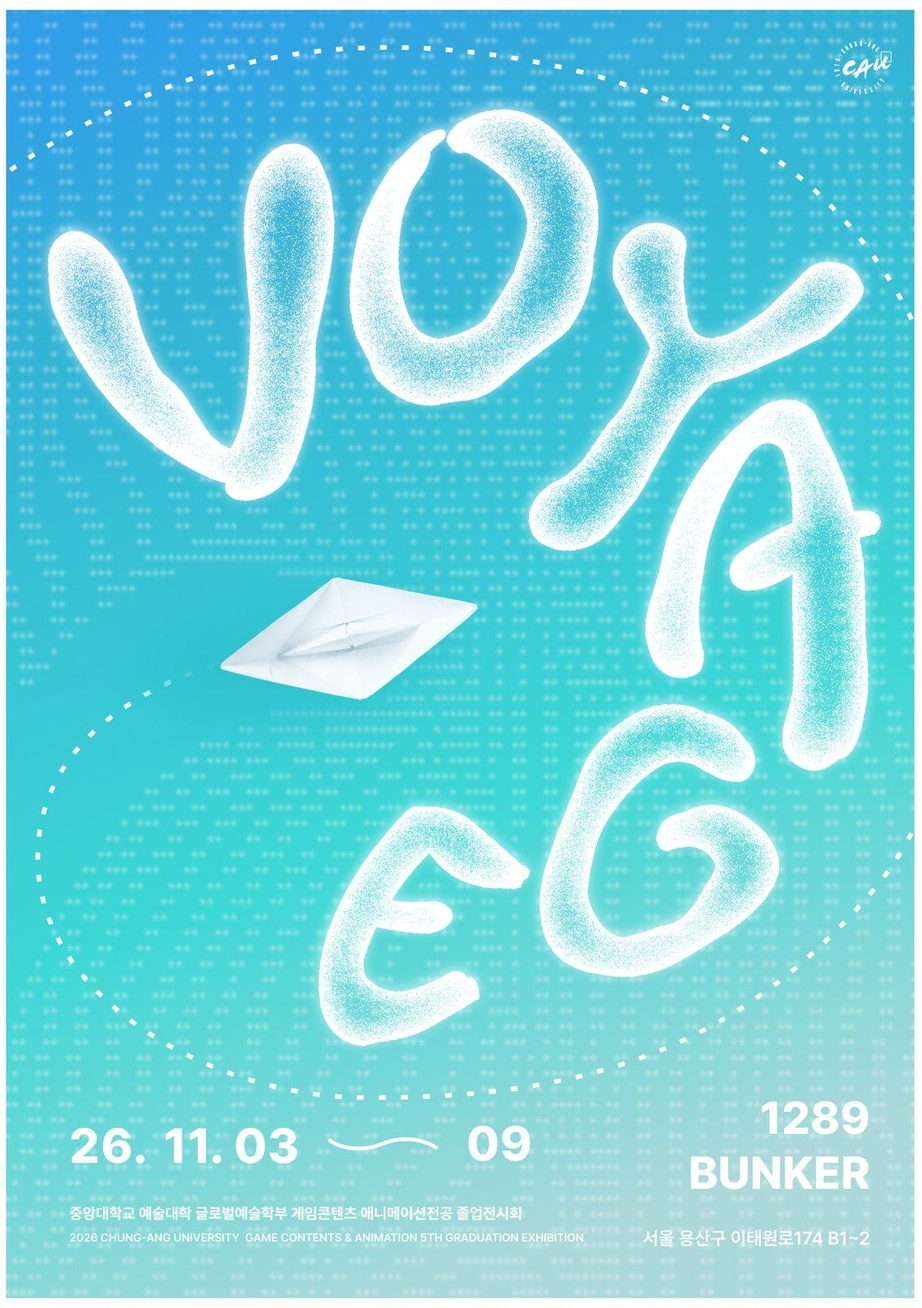
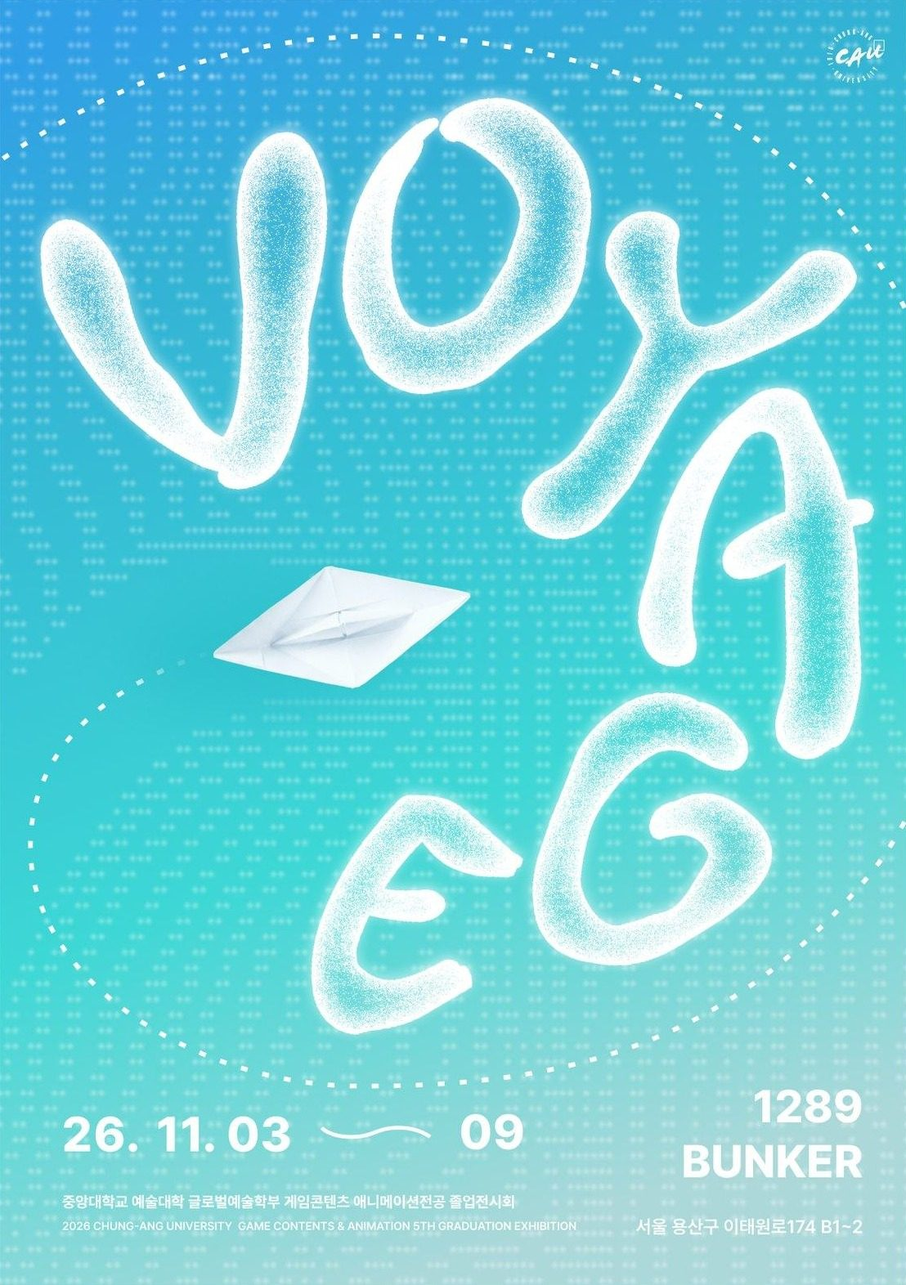
site update 2026-10-25 (ga.cau.ac.kr)

diff --git a/vi/index.html b/vi/index.html
@@ -10,7 +10,7 @@
 <section class="hg"><div class="ht"><div class="lbl">Chung-Ang University · College of Arts · School of Global Arts</div>
 <div><h1>Nội dung<br>Game &amp;<br>Hoạt hình</h1><div class="en">Department of Game Contents &amp; Animation</div></div>
 <p class="lede">Chuyên ngành Nội dung Game &amp; Hoạt hình là chuyên ngành truyền thông liên ngành, kết hợp game, hoạt hình và truyền thông tương tác thành một lĩnh vực sáng tạo thống nhất. Thiết kế nội dung nhằm kiến tạo cảm xúc và trải nghiệm là trọng tâm của hoạt động đào tạo và nghiên cứu.</p></div>
-<figure><img id="hero-img" src="../assets/hero_aria_site.jpg" alt="Cảnh trong tác phẩm sinh viên · Aria&#x27;s Storage Heaven" style="object-position:45% 30%"><figcaption id="hero-cap">STILL · Aria's Storage Heaven · Wu Zhijuan · 2023</figcaption></figure><script>(function(){var H=[["../assets/hero_aria_site.jpg", "45% 30%", "Aria's Storage Heaven", "Wu Zhijuan", 2023, 1], ["../assets/w_theme.jpg", "50% 50%", "Theme World", "Won Jeongmin", 2024, 1], ["../assets/works/2026_dorok/kimsunyou_main_hero.jpg", "50% 50%", "글리치", "Kim Sunyou", 2026, 1]];var m=location.search.match(/hero=(\d)/);var i=m?Math.min(+m[1],H.length-1):Math.floor(Math.random()*H.length);var h=H[i];var im=document.getElementById("hero-img"),c=document.getElementById("hero-cap");im.src=h[0];im.style.objectPosition=h[1];if(h[5]>1){im.style.transform="scale("+h[5]+")";im.style.transformOrigin=h[1];}im.alt="Tác phẩm sinh viên · "+h[2];c.textContent="STILL · "+h[2]+" · "+h[3]+" · "+h[4];})();</script></section>
+<figure><img id="hero-img" src="../assets/hero_aria_site.jpg" alt="Cảnh trong tác phẩm sinh viên · Aria&#x27;s Storage Heaven" style="object-position:45% 30%"><figcaption id="hero-cap">STILL · Aria's Storage Heaven · Wu Zhijuan</figcaption></figure><script>(function(){var H=[["../assets/hero_aria_site.jpg", "45% 30%", "Aria's Storage Heaven", "Wu Zhijuan", 2023, 1], ["../assets/works/2024_dorok/wonjeongmin_hero.jpg", "50% 50%", "Theme World", "Won Jeongmin", 2024, 1], ["../assets/works/2026_dorok/kimsunyou_main_hero.jpg", "50% 50%", "글리치", "Kim Sunyou", 2026, 1]];var m=location.search.match(/hero=(\d)/);var i=m?Math.min(+m[1],H.length-1):Math.floor(Math.random()*H.length);var h=H[i];var im=document.getElementById("hero-img"),c=document.getElementById("hero-cap");im.src=h[0];im.style.objectPosition=h[1];if(h[5]>1){im.style.transform="scale("+h[5]+")";im.style.transformOrigin=h[1];}im.alt="Tác phẩm sinh viên · "+h[2];c.textContent="STILL · "+h[2]+" · "+h[3];})();</script></section>
 <section class="nowbar" aria-label="Sự kiện đang diễn ra"><div class="nb-k"><i></i>NOW</div><ul><li data-show="2026-10-06" data-start="2026-10-16" data-end="2026-10-26"><a href="admission.html#grad"><span class="d"></span>Nhận hồ sơ sau đại học kỳ xuân 2027 10.16–10.26<span aria-hidden="true">→</span></a></li><li data-show="2026-10-20" data-start="2026-11-03" data-end="2026-11-09"><a href="events.html"><span class="d"></span>Triển lãm tốt nghiệp 2026 「VOYAGE」 11.3–11.9 · 1289BUNKER, Itaewon<span aria-hidden="true">→</span></a></li></ul><span class="nb-n"></span></section><script>(function(){var bar=document.querySelector(".nowbar");if(!bar)return;var t=new Date();t.setHours(0,0,0,0);var all=/nowbar=all/.test(location.search);var n=0;bar.querySelectorAll("li").forEach(function(li){var sh=new Date(li.dataset.show+"T00:00:00"),st=new Date(li.dataset.start+"T00:00:00"),en=new Date(li.dataset.end+"T00:00:00");if(!all&&(t<sh||t>en)){li.remove();return;}n++;var d=Math.round((st-t)/864e5);li.querySelector(".d").textContent=d>0?"D-"+d:"Đang diễn ra";});if(!n){bar.hidden=true;return;}var li=[].slice.call(bar.querySelectorAll("li")),i=0,cnt=bar.querySelector(".nb-n");function show(k){li.forEach(function(x,j){x.classList.toggle("on",j===k)});if(cnt)cnt.textContent=li.length>1?(k+1)+" / "+li.length:"";}show(0);if(li.length>1){var stop=false;bar.addEventListener("mouseenter",function(){stop=true});bar.addEventListener("mouseleave",function(){stop=false});setInterval(function(){if(stop)return;i=(i+1)%li.length;show(i)},5000);}})();</script>
 <section class="tri two"><div><h2 class="lbl">Notice · Thông báo</h2><ul class="nl" id="nl-main"><li><a href="notice-view.html"><span class="tag">Tuyển sinh</span><span>Tuyển sinh tân sinh viên Khoa Nghệ thuật Sáng tạo Toàn cầu (sau đại học) kỳ xuân năm học 2027<small>2026.10.12</small></span></a></li><li><a href="notice-view.html"><span class="tag">Học vụ</span><span>Hướng dẫn đăng ký tư vấn Khám phá chuyên ngành và nghề nghiệp<small>2026.10.07</small></span></a></li><li><a href="notice-view.html"><span class="tag">Học vụ</span><span>Lịch tư vấn nghề nghiệp môn CAU Seminar (2)<small>2026.10.06</small></span></a></li><li><a href="notice-view.html"><span class="tag">Học vụ</span><span>Thông báo tổ chức Xét duyệt chính thức Đồ án tốt nghiệp 2026 (xét duyệt triển lãm cấp bằng)<small>2026.10.05</small></span></a></li><li><a href="notice-view.html"><span class="tag">Quốc tế</span><span>Chuyên ngành Nội dung Game &amp; Hoạt hình chính thức tham gia liên minh quốc tế Erasmus+ của EU và thông tin về sinh viên trao đổi<small>2026.09.29</small></span></a></li></ul><p style="margin:12px 0 0"><a class="lbl blue" href="sub.html#notice">All notices →</a></p></div><div id="news"><h2 class="lbl">News · Tin tức</h2><ul class="news-l"><li><a href="sub.html#news"><span class="d">2026.09.29</span><span><span class="k">Quốc tế</span>Chuyên ngành Nội dung Game &amp; Hoạt hình được xác nhận chính thức tham gia liên minh quốc tế Erasmus+ (Erasmus+) của EU</span></a></li><li><a href="sub.html#news"><span class="d">2026.09.03</span><span><span class="k">Bài giảng đặc biệt</span>Đại hội đầu kỳ 2026-2 · Bài giảng đặc biệt: Lee Bangyeon (Trưởng nhóm thiết kế màn chơi, KRAFTON PUBG) 「Thực chiến! Bí quyết xin việc tại công ty game」</span></a></li><li><a href="sub.html#news"><span class="d">2026.08.12</span><span><span class="k">Giải thưởng</span>Đồ án tốt nghiệp 〈School bag〉 vượt qua vòng 1 và vào vòng 2 Cuộc thi Phát triển Game Độc lập Toàn cầu 2026 (GIGDC)</span></a></li><li><a href="sub.html#news"><span class="d">2026.05.30</span><span><span class="k">Cựu sinh viên</span>Cựu sinh viên khóa 2025 Zhang HongAo gia nhập Giant Network tại Thượng Hải ở vị trí đạo diễn game</span></a></li><li><a href="sub.html#news"><span class="d">2026.04.08</span><span><span class="k">Quốc tế</span>Dự án phát triển quốc tế 2026 「Vanishing Life」 chọn đội tham gia: Team Dadaism</span></a></li></ul><p style="margin:12px 0 0"><a class="lbl blue" href="sub.html#news">All news →</a></p></div></section>
 <section class="tri two low"><div><h2 class="lbl">Calendar · Lịch</h2><ul class="nl ag"><li><a href="calendar.html"><b>10.16</b><span>Bắt đầu nhận hồ sơ sau đại học<small>10.16~10.26 · UWAY Apply</small></span></a></li><li><a href="calendar.html"><b>10.20</b><span>Thi giữa kỳ học kỳ 2026-2<small>10.20~10.26</small></span></a></li><li><a href="calendar.html"><b>11.03</b><span>Khai mạc Triển lãm tốt nghiệp 2026<small>11.3~11.9 · 1289BUNKER, Itaewon</small></span></a></li><li><a href="calendar.html"><b>11.05</b><span>Lễ hội Nghệ thuật Toàn cầu<small>18:00 · Tòa 608, Nhà hát Quốc nhạc</small></span></a></li><li><a href="calendar.html"><b>11.11</b><span>Workshop giao lưu quốc tế CAU × KHM<small>11.11~11.13</small></span></a></li></ul></div><div><h2 class="lbl">Shortcut</h2><div class="ql"><a href="calendar.html">Lịch học vụ<span class="blue">→</span></a><a href="curriculum.html">Chương trình đào tạo<span class="blue">→</span></a><a href="works.html">Lưu trữ theo năm<span class="blue">→</span></a><a href="admission.html#grad">Học lên sau đại học<span class="blue">→</span></a></div></div></section>

diff --git a/en/index.html b/en/index.html
@@ -10,7 +10,7 @@
 <section class="hg"><div class="ht"><div class="lbl">Chung-Ang University · College of Arts · School of Global Arts</div>
 <div><h1>Game Contents<br>&amp; Animation</h1><div class="en">Dep. Game contents &amp; Animation</div></div>
 <p class="lede">The Department of Game Contents &amp; Animation is an interdisciplinary media program that brings games, animation, and interactive media together as a single creative field. Content design that shapes emotion and experience is at the center of its teaching and research.</p></div>
-<figure><img id="hero-img" src="../assets/hero_aria_site.jpg" alt="Scene from a student work · Aria&#x27;s Storage Heaven" style="object-position:45% 30%"><figcaption id="hero-cap">STILL · Aria's Storage Heaven · Wu Zhijuan · 2023</figcaption></figure><script>(function(){var H=[["../assets/hero_aria_site.jpg", "45% 30%", "Aria's Storage Heaven", "Wu Zhijuan", 2023, 1], ["../assets/w_theme.jpg", "50% 50%", "Theme World", "Won Jeongmin", 2024, 1], ["../assets/works/2026_dorok/kimsunyou_main_hero.jpg", "50% 50%", "글리치", "Kim Sunyou", 2026, 1]];var m=location.search.match(/hero=(\d)/);var i=m?Math.min(+m[1],H.length-1):Math.floor(Math.random()*H.length);var h=H[i];var im=document.getElementById("hero-img"),c=document.getElementById("hero-cap");im.src=h[0];im.style.objectPosition=h[1];if(h[5]>1){im.style.transform="scale("+h[5]+")";im.style.transformOrigin=h[1];}im.alt="Student work · "+h[2];c.textContent="STILL · "+h[2]+" · "+h[3]+" · "+h[4];})();</script></section>
+<figure><img id="hero-img" src="../assets/hero_aria_site.jpg" alt="Scene from a student work · Aria&#x27;s Storage Heaven" style="object-position:45% 30%"><figcaption id="hero-cap">STILL · Aria's Storage Heaven · Wu Zhijuan</figcaption></figure><script>(function(){var H=[["../assets/hero_aria_site.jpg", "45% 30%", "Aria's Storage Heaven", "Wu Zhijuan", 2023, 1], ["../assets/works/2024_dorok/wonjeongmin_hero.jpg", "50% 50%", "Theme World", "Won Jeongmin", 2024, 1], ["../assets/works/2026_dorok/kimsunyou_main_hero.jpg", "50% 50%", "글리치", "Kim Sunyou", 2026, 1]];var m=location.search.match(/hero=(\d)/);var i=m?Math.min(+m[1],H.length-1):Math.floor(Math.random()*H.length);var h=H[i];var im=document.getElementById("hero-img"),c=document.getElementById("hero-cap");im.src=h[0];im.style.objectPosition=h[1];if(h[5]>1){im.style.transform="scale("+h[5]+")";im.style.transformOrigin=h[1];}im.alt="Student work · "+h[2];c.textContent="STILL · "+h[2]+" · "+h[3];})();</script></section>
 <section class="nowbar" aria-label="Ongoing events"><div class="nb-k"><i></i>NOW</div><ul><li data-show="2026-10-06" data-start="2026-10-16" data-end="2026-10-26"><a href="admission.html#grad"><span class="d"></span>Spring 2027 graduate applications 10.16–10.26<span aria-hidden="true">→</span></a></li><li data-show="2026-10-20" data-start="2026-11-03" data-end="2026-11-09"><a href="events.html"><span class="d"></span>2026 Graduation Exhibition 「VOYAGE」 11.3–11.9 · 1289BUNKER, Itaewon<span aria-hidden="true">→</span></a></li></ul><span class="nb-n"></span></section><script>(function(){var bar=document.querySelector(".nowbar");if(!bar)return;var t=new Date();t.setHours(0,0,0,0);var all=/nowbar=all/.test(location.search);var n=0;bar.querySelectorAll("li").forEach(function(li){var sh=new Date(li.dataset.show+"T00:00:00"),st=new Date(li.dataset.start+"T00:00:00"),en=new Date(li.dataset.end+"T00:00:00");if(!all&&(t<sh||t>en)){li.remove();return;}n++;var d=Math.round((st-t)/864e5);li.querySelector(".d").textContent=d>0?"D-"+d:"Ongoing";});if(!n){bar.hidden=true;return;}var li=[].slice.call(bar.querySelectorAll("li")),i=0,cnt=bar.querySelector(".nb-n");function show(k){li.forEach(function(x,j){x.classList.toggle("on",j===k)});if(cnt)cnt.textContent=li.length>1?(k+1)+" / "+li.length:"";}show(0);if(li.length>1){var stop=false;bar.addEventListener("mouseenter",function(){stop=true});bar.addEventListener("mouseleave",function(){stop=false});setInterval(function(){if(stop)return;i=(i+1)%li.length;show(i)},5000);}})();</script>
 <section class="tri two"><div><h2 class="lbl">Notice</h2><ul class="nl" id="nl-main"><li><a href="notice-view.html"><span class="tag">Admissions</span><span>Department of Global Creative Arts (Graduate School): Admissions for Spring 2027<small>2026.10.12</small></span></a></li><li><a href="notice-view.html"><span class="tag">Academics</span><span>Major &amp; Career Discovery counseling: how to apply<small>2026.10.07</small></span></a></li><li><a href="notice-view.html"><span class="tag">Academics</span><span>CAU Seminar (2): career counseling schedule<small>2026.10.06</small></span></a></li><li><a href="notice-view.html"><span class="tag">Academics</span><span>Notice: 2026 Graduation Project Final Review (Degree Exhibition Review)<small>2026.10.05</small></span></a></li><li><a href="notice-view.html"><span class="tag">International</span><span>Department of Game Contents &amp; Animation joins EU Erasmus+ international consortium: exchange student information<small>2026.09.29</small></span></a></li></ul><p style="margin:12px 0 0"><a class="lbl blue" href="sub.html#notice">All notices →</a></p></div><div id="news"><h2 class="lbl">News</h2><ul class="news-l"><li><a href="sub.html#news"><span class="d">2026.09.29</span><span><span class="k">International</span>Department of Game Contents &amp; Animation confirmed as full participant in EU Erasmus+ international consortium</span></a></li><li><a href="sub.html#news"><span class="d">2026.09.03</span><span><span class="k">Special lecture</span>2026-2 Semester opening assembly · Special lecture: Lee Bangyeon (Lead Level Designer, KRAFTON PUBG) 「Real-World Tips for Landing a Job at a Game Company」</span></a></li><li><a href="sub.html#news"><span class="d">2026.08.12</span><span><span class="k">Awards</span>Graduation project 〈School bag〉 passes the first round and advances to the second round of the 2026 Global Indie Game Development Contest (GIGDC)</span></a></li><li><a href="sub.html#news"><span class="d">2026.05.30</span><span><span class="k">Alumni</span>Class of 2025 graduate Zhang HongAo joins Giant Network in Shanghai in a game direction role</span></a></li><li><a href="sub.html#news"><span class="d">2026.04.08</span><span><span class="k">International</span>2026 International Development Project 「Vanishing Life」 team selected: Team Dadaism</span></a></li></ul><p style="margin:12px 0 0"><a class="lbl blue" href="sub.html#news">All news →</a></p></div></section>
 <section class="tri two low"><div><h2 class="lbl">Calendar</h2><ul class="nl ag"><li><a href="calendar.html"><b>10.16</b><span>Graduate applications open<small>10.16~10.26 · UWAY Apply</small></span></a></li><li><a href="calendar.html"><b>10.20</b><span>2026-2 semester midterm exams<small>10.20~10.26</small></span></a></li><li><a href="calendar.html"><b>11.03</b><span>2026 Graduation Exhibition opens<small>11.3~11.9 · 1289BUNKER, Itaewon</small></span></a></li><li><a href="calendar.html"><b>11.05</b><span>Global Arts Festival<small>18:00 · Building 608, Korean Traditional Music Hall</small></span></a></li><li><a href="calendar.html"><b>11.11</b><span>CAU × KHM International Exchange Workshop<small>11.11~11.13</small></span></a></li></ul></div><div><h2 class="lbl">Shortcut</h2><div class="ql"><a href="calendar.html">Academic Calendar<span class="blue">→</span></a><a href="curriculum.html">Curriculum<span class="blue">→</span></a><a href="works.html">Archive by year<span class="blue">→</span></a><a href="admission.html#grad">Graduate study<span class="blue">→</span></a></div></div></section>

diff --git a/index.html b/index.html
@@ -10,7 +10,7 @@
 <section class="hg"><div class="ht"><div class="lbl">Chung-Ang University · College of Arts · School of Global Arts</div>
 <div><h1>게임콘텐츠·<br>애니메이션<br>전공</h1><div class="en">Department of Game Contents &amp; Animation</div></div>
 <p class="lede">게임콘텐츠·애니메이션전공은 게임, 애니메이션, 인터랙티브 미디어를 하나의 창작 영역으로 아우르는 융합 미디어 전공입니다. 감정과 경험을 설계하는 콘텐츠 디자인을 교육과 연구의 중심에 둡니다.</p></div>
-<figure><img id="hero-img" src="assets/hero_aria_site.jpg" alt="학생 작품 장면 · Aria's Storage Heaven" style="object-position:45% 30%"><figcaption id="hero-cap">STILL · Aria's Storage Heaven · 오지연 · 2023</figcaption></figure><script>(function(){var H=[["assets/hero_aria_site.jpg", "45% 30%", "Aria's Storage Heaven", "오지연", 2023, 1], ["assets/w_theme.jpg", "50% 50%", "Theme World", "원정민", 2024, 1], ["assets/works/2026_dorok/kimsunyou_main_hero.jpg", "50% 50%", "글리치", "김선유", 2026, 1]];var m=location.search.match(/hero=(\d)/);var i=m?Math.min(+m[1],H.length-1):Math.floor(Math.random()*H.length);var h=H[i];var im=document.getElementById("hero-img"),c=document.getElementById("hero-cap");im.src=h[0];im.style.objectPosition=h[1];if(h[5]>1){im.style.transform="scale("+h[5]+")";im.style.transformOrigin=h[1];}im.alt="학생 작품 장면 · "+h[2];c.textContent="STILL · "+h[2]+" · "+h[3]+" · "+h[4];})();</script></section>
+<figure><img id="hero-img" src="assets/hero_aria_site.jpg" alt="학생 작품 장면 · Aria's Storage Heaven" style="object-position:45% 30%"><figcaption id="hero-cap">STILL · Aria's Storage Heaven · 오지연</figcaption></figure><script>(function(){var H=[["assets/hero_aria_site.jpg", "45% 30%", "Aria's Storage Heaven", "오지연", 2023, 1], ["assets/works/2024_dorok/wonjeongmin_hero.jpg", "50% 50%", "Theme World", "원정민", 2024, 1], ["assets/works/2026_dorok/kimsunyou_main_hero.jpg", "50% 50%", "글리치", "김선유", 2026, 1]];var m=location.search.match(/hero=(\d)/);var i=m?Math.min(+m[1],H.length-1):Math.floor(Math.random()*H.length);var h=H[i];var im=document.getElementById("hero-img"),c=document.getElementById("hero-cap");im.src=h[0];im.style.objectPosition=h[1];if(h[5]>1){im.style.transform="scale("+h[5]+")";im.style.transformOrigin=h[1];}im.alt="학생 작품 장면 · "+h[2];c.textContent="STILL · "+h[2]+" · "+h[3];})();</script></section>
 <section class="nowbar" aria-label="진행 중인 일정"><div class="nb-k"><i></i>NOW</div><ul><li data-show="2026-10-06" data-start="2026-10-16" data-end="2026-10-26"><a href="admission.html#grad"><span class="d"></span>2027 전반기 대학원 원서접수 10.16–10.26<span aria-hidden="true">→</span></a></li><li data-show="2026-10-20" data-start="2026-11-03" data-end="2026-11-09"><a href="events.html"><span class="d"></span>2026 졸업작품전 「VOYAGE」 11.3–11.9 · 이태원 1289BUNKER<span aria-hidden="true">→</span></a></li></ul><span class="nb-n"></span></section><script>(function(){var bar=document.querySelector(".nowbar");if(!bar)return;var t=new Date();t.setHours(0,0,0,0);var all=/nowbar=all/.test(location.search);var n=0;bar.querySelectorAll("li").forEach(function(li){var sh=new Date(li.dataset.show+"T00:00:00"),st=new Date(li.dataset.start+"T00:00:00"),en=new Date(li.dataset.end+"T00:00:00");if(!all&&(t<sh||t>en)){li.remove();return;}n++;var d=Math.round((st-t)/864e5);li.querySelector(".d").textContent=d>0?"D-"+d:"진행 중";});if(!n){bar.hidden=true;return;}var li=[].slice.call(bar.querySelectorAll("li")),i=0,cnt=bar.querySelector(".nb-n");function show(k){li.forEach(function(x,j){x.classList.toggle("on",j===k)});if(cnt)cnt.textContent=li.length>1?(k+1)+" / "+li.length:"";}show(0);if(li.length>1){var stop=false;bar.addEventListener("mouseenter",function(){stop=true});bar.addEventListener("mouseleave",function(){stop=false});setInterval(function(){if(stop)return;i=(i+1)%li.length;show(i)},5000);}})();</script>
 <section class="tri two"><div><h2 class="lbl">Notice · 공지</h2><ul class="nl" id="nl-main"><li><a href="notice-view.html"><span class="tag">입학</span><span>2027학년도 전반기 글로벌크리에이티브아트학과(대학원) 신입생 모집<small>2026.10.12</small></span></a></li><li><a href="notice-view.html"><span class="tag">학사</span><span>전공진로 디스커버리 상담 신청 안내<small>2026.10.07</small></span></a></li><li><a href="notice-view.html"><span class="tag">학사</span><span>CAU세미나(2) 진로 상담 일정 안내<small>2026.10.06</small></span></a></li><li><a href="notice-view.html"><span class="tag">학사</span><span>2026 졸업작품 본심사(학위청구전 심사) 시행 안내<small>2026.10.05</small></span></a></li><li><a href="notice-view.html"><span class="tag">국제</span><span>게임콘텐츠·애니메이션전공 EU 에라스무스+ 국제 컨소시엄 정식 참여 및 교환학생 안내<small>2026.09.29</small></span></a></li></ul><p style="margin:12px 0 0"><a class="lbl blue" href="sub.html#notice">All notices →</a></p></div><div id="news"><h2 class="lbl">News · 전공 뉴스</h2><ul class="news-l"><li><a href="sub.html#news"><span class="d">2026.09.29</span><span><span class="k">국제</span>게임콘텐츠·애니메이션전공, EU 에라스무스+(Erasmus+) 국제 컨소시엄 정식 참여 확정</span></a></li><li><a href="sub.html#news"><span class="d">2026.09.03</span><span><span class="k">특강</span>2026-2 개강총회·전공 특강: 이방연(크래프톤 PUBG 리드 레벨 디자이너) 「실전! 게임 회사 취업 꿀팁」</span></a></li><li><a href="sub.html#news"><span class="d">2026.08.12</span><span><span class="k">수상</span>졸업작품 〈책가방 Backpack〉, 2026 글로벌 인디게임제작 경진대회(GIGDC) 1차 통과·2차 진출</span></a></li><li><a href="sub.html#news"><span class="d">2026.05.30</span><span><span class="k">졸업생</span>2025년 졸업생 장홍오, 상하이 Giant Network 게임 연출 직무 입사</span></a></li><li><a href="sub.html#news"><span class="d">2026.04.08</span><span><span class="k">국제</span>2026 해외개발프로젝트 「Vanishing Life」 참가팀 선발: 팀 다다이즘</span></a></li></ul><p style="margin:12px 0 0"><a class="lbl blue" href="sub.html#news">All news →</a></p></div></section>
 <section class="tri two low"><div><h2 class="lbl">Calendar · 일정</h2><ul class="nl ag"><li><a href="calendar.html"><b>10.16</b><span>대학원 원서접수 시작<small>10.16~10.26 · 유웨이 어플라이</small></span></a></li><li><a href="calendar.html"><b>10.20</b><span>2026-2학기 중간고사<small>10.20~10.26</small></span></a></li><li><a href="calendar.html"><b>11.03</b><span>2026 졸업작품전 개막<small>11.3~11.9 · 이태원 1289BUNKER</small></span></a></li><li><a href="calendar.html"><b>11.05</b><span>글로벌예술제<small>18:00 · 608관 국악당</small></span></a></li><li><a href="calendar.html"><b>11.11</b><span>CAU × KHM 국제 교류 워크숍<small>11.11~11.13</small></span></a></li></ul></div><div><h2 class="lbl">Shortcut</h2><div class="ql"><a href="calendar.html">학사일정<span class="blue">→</span></a><a href="curriculum.html">교과과정<span class="blue">→</span></a><a href="works.html">연도별 아카이브<span class="blue">→</span></a><a href="admission.html#grad">대학원 진학<span class="blue">→</span></a></div></div></section>

diff --git a/zh/index.html b/zh/index.html
@@ -10,7 +10,7 @@
 <section class="hg"><div class="ht"><div class="lbl">Chung-Ang University · College of Arts · School of Global Arts</div>
 <div><h1>游戏内容<br>与动画<br>专业</h1><div class="en">Department of Game Contents &amp; Animation</div></div>
 <p class="lede">游戏内容与动画专业是将游戏、动画与互动媒体整合为一个创作领域的融合媒体专业。专业以设计情感与体验的内容设计为教学与研究的核心。</p></div>
-<figure><img id="hero-img" src="../assets/hero_aria_site.jpg" alt="学生作品画面 · Aria&#x27;s Storage Heaven" style="object-position:45% 30%"><figcaption id="hero-cap">STILL · Aria's Storage Heaven · Wu Zhijuan · 2023</figcaption></figure><script>(function(){var H=[["../assets/hero_aria_site.jpg", "45% 30%", "Aria's Storage Heaven", "Wu Zhijuan", 2023, 1], ["../assets/w_theme.jpg", "50% 50%", "Theme World", "Won Jeongmin", 2024, 1], ["../assets/works/2026_dorok/kimsunyou_main_hero.jpg", "50% 50%", "글리치", "Kim Sunyou", 2026, 1]];var m=location.search.match(/hero=(\d)/);var i=m?Math.min(+m[1],H.length-1):Math.floor(Math.random()*H.length);var h=H[i];var im=document.getElementById("hero-img"),c=document.getElementById("hero-cap");im.src=h[0];im.style.objectPosition=h[1];if(h[5]>1){im.style.transform="scale("+h[5]+")";im.style.transformOrigin=h[1];}im.alt="学生作品 · "+h[2];c.textContent="STILL · "+h[2]+" · "+h[3]+" · "+h[4];})();</script></section>
+<figure><img id="hero-img" src="../assets/hero_aria_site.jpg" alt="学生作品画面 · Aria&#x27;s Storage Heaven" style="object-position:45% 30%"><figcaption id="hero-cap">STILL · Aria's Storage Heaven · Wu Zhijuan</figcaption></figure><script>(function(){var H=[["../assets/hero_aria_site.jpg", "45% 30%", "Aria's Storage Heaven", "Wu Zhijuan", 2023, 1], ["../assets/works/2024_dorok/wonjeongmin_hero.jpg", "50% 50%", "Theme World", "Won Jeongmin", 2024, 1], ["../assets/works/2026_dorok/kimsunyou_main_hero.jpg", "50% 50%", "글리치", "Kim Sunyou", 2026, 1]];var m=location.search.match(/hero=(\d)/);var i=m?Math.min(+m[1],H.length-1):Math.floor(Math.random()*H.length);var h=H[i];var im=document.getElementById("hero-img"),c=document.getElementById("hero-cap");im.src=h[0];im.style.objectPosition=h[1];if(h[5]>1){im.style.transform="scale("+h[5]+")";im.style.transformOrigin=h[1];}im.alt="学生作品 · "+h[2];c.textContent="STILL · "+h[2]+" · "+h[3];})();</script></section>
 <section class="nowbar" aria-label="进行中的日程"><div class="nb-k"><i></i>NOW</div><ul><li data-show="2026-10-06" data-start="2026-10-16" data-end="2026-10-26"><a href="admission.html#grad"><span class="d"></span>2027 春季研究生招生报名 10.16–10.26<span aria-hidden="true">→</span></a></li><li data-show="2026-10-20" data-start="2026-11-03" data-end="2026-11-09"><a href="events.html"><span class="d"></span>2026 毕业作品展「VOYAGE」11.3–11.9 · 梨泰院 1289BUNKER<span aria-hidden="true">→</span></a></li></ul><span class="nb-n"></span></section><script>(function(){var bar=document.querySelector(".nowbar");if(!bar)return;var t=new Date();t.setHours(0,0,0,0);var all=/nowbar=all/.test(location.search);var n=0;bar.querySelectorAll("li").forEach(function(li){var sh=new Date(li.dataset.show+"T00:00:00"),st=new Date(li.dataset.start+"T00:00:00"),en=new Date(li.dataset.end+"T00:00:00");if(!all&&(t<sh||t>en)){li.remove();return;}n++;var d=Math.round((st-t)/864e5);li.querySelector(".d").textContent=d>0?"D-"+d:"进行中";});if(!n){bar.hidden=true;return;}var li=[].slice.call(bar.querySelectorAll("li")),i=0,cnt=bar.querySelector(".nb-n");function show(k){li.forEach(function(x,j){x.classList.toggle("on",j===k)});if(cnt)cnt.textContent=li.length>1?(k+1)+" / "+li.length:"";}show(0);if(li.length>1){var stop=false;bar.addEventListener("mouseenter",function(){stop=true});bar.addEventListener("mouseleave",function(){stop=false});setInterval(function(){if(stop)return;i=(i+1)%li.length;show(i)},5000);}})();</script>
 <section class="tri two"><div><h2 class="lbl">Notice · 公告</h2><ul class="nl" id="nl-main"><li><a href="notice-view.html"><span class="tag">招生</span><span>2027学年春季 全球创意艺术学科（研究生院）新生招生<small>2026.10.12</small></span></a></li><li><a href="notice-view.html"><span class="tag">学业</span><span>专业与职业探索（Discovery）咨询申请通知<small>2026.10.07</small></span></a></li><li><a href="notice-view.html"><span class="tag">学业</span><span>CAU研讨会(2) 职业咨询日程通知<small>2026.10.06</small></span></a></li><li><a href="notice-view.html"><span class="tag">学业</span><span>2026 毕业作品终审（学位申请展审查）实施通知<small>2026.10.05</small></span></a></li><li><a href="notice-view.html"><span class="tag">国际</span><span>游戏内容与动画专业正式参与欧盟伊拉斯谟+国际联盟及交换生说明<small>2026.09.29</small></span></a></li></ul><p style="margin:12px 0 0"><a class="lbl blue" href="sub.html#notice">All notices →</a></p></div><div id="news"><h2 class="lbl">News · 专业新闻</h2><ul class="news-l"><li><a href="sub.html#news"><span class="d">2026.09.29</span><span><span class="k">国际</span>游戏内容与动画专业确定正式参与欧盟伊拉斯谟+（Erasmus+）国际联盟</span></a></li><li><a href="sub.html#news"><span class="d">2026.09.03</span><span><span class="k">特别讲座</span>2026-2 开学大会 · 专业特别讲座：Lee Bangyeon（KRAFTON PUBG 首席关卡设计师）「实战！游戏公司求职秘诀」</span></a></li><li><a href="sub.html#news"><span class="d">2026.08.12</span><span><span class="k">获奖</span>毕业作品〈School bag〉通过 2026 全球独立游戏制作大赛（GIGDC）初审，晋级第二轮</span></a></li><li><a href="sub.html#news"><span class="d">2026.05.30</span><span><span class="k">毕业生</span>2025届毕业生 Zhang HongAo 入职上海巨人网络（Giant Network），担任游戏演出岗位</span></a></li><li><a href="sub.html#news"><span class="d">2026.04.08</span><span><span class="k">国际</span>2026 海外开发项目「Vanishing Life」参赛团队选拔：Team Dadaism</span></a></li></ul><p style="margin:12px 0 0"><a class="lbl blue" href="sub.html#news">All news →</a></p></div></section>
 <section class="tri two low"><div><h2 class="lbl">Calendar · 日程</h2><ul class="nl ag"><li><a href="calendar.html"><b>10.16</b><span>研究生招生报名开始<small>10.16~10.26 · UWAY Apply</small></span></a></li><li><a href="calendar.html"><b>10.20</b><span>2026-2 学期期中考试<small>10.20~10.26</small></span></a></li><li><a href="calendar.html"><b>11.03</b><span>2026 毕业作品展开幕<small>11.3~11.9 · 梨泰院 1289BUNKER</small></span></a></li><li><a href="calendar.html"><b>11.05</b><span>全球艺术节<small>18:00 · 608馆 国乐堂</small></span></a></li><li><a href="calendar.html"><b>11.11</b><span>CAU × KHM 国际交流工作坊<small>11.11~11.13</small></span></a></li></ul></div><div><h2 class="lbl">Shortcut</h2><div class="ql"><a href="calendar.html">校历<span class="blue">→</span></a><a href="curriculum.html">课程体系<span class="blue">→</span></a><a href="works.html">年度作品档案<span class="blue">→</span></a><a href="admission.html#grad">升读研究生<span class="blue">→</span></a></div></div></section>

diff --git a/style.css b/style.css
@@ -490,7 +490,7 @@ body{padding-left:248px}
 .wd-hero.typo span{color:#fff;font:800 clamp(28px,4vw,52px)/1.1 var(--sans);letter-spacing:-.04em}
 .wd-en{font-size:17px;color:var(--muted);margin-top:6px}
 .wd-links{display:flex;gap:18px;font-weight:600}
-.wy-show{display:grid;grid-template-columns:minmax(0,.705fr) minmax(0,2fr);gap:10px;margin:0 0 14px}  /* 10/20 2026 포스터 + 도록 펼침면, 같은 높이 */
+.wy-show{display:grid;grid-template-columns:minmax(0,.7048fr) minmax(0,1.9826fr);gap:10px;margin:0 0 14px}  /* 10/20 2026 포스터 + 도록 펼침면, 같은 높이. 10/25 칸 비율 = 두 이미지 실제 비율(포스터 흰 테두리 잘라 낸 1108×1572 · 펼침면 재단선 잘라 낸 1592×803), 큰 화면에서 덜 잘림 지적(김채린) */
 .wy-show a{display:block}.wy-show .g:hover{filter:none}  /* 10/21 본인: 펼침면도 마우스 올리면 색 */
 .wy-show img{width:100%;height:100%;object-fit:cover;display:block;border:1px solid var(--hair)}
 .wy-info{display:grid;grid-template-columns:minmax(0,1.3fr) minmax(0,1fr);gap:28px;padding:4px 0 26px}
@@ -554,7 +554,7 @@ body{padding-left:248px}
 @media (max-width:980px){.nowbar .nb-k{padding:0 12px 0 var(--g)}.nowbar a{padding:11px 14px;font-size:13.5px}.nowbar .nb-n{display:none}}
 
 .langs{display:flex;gap:6px;margin:0 0 12px}
-.langs a{display:inline-block;border:1px solid var(--blue);color:var(--blue);font:600 13.5px var(--mono);letter-spacing:0.04em;line-height:1.2;padding:5px 10px}
+.langs a{display:inline-block;border:1px solid var(--blue);color:var(--blue);font:600 13.5px var(--mono);letter-spacing:0.04em;line-height:1.2;padding:5px 10px;white-space:nowrap;flex:0 0 auto}  /* 10/25 영·중·베 페이지에서 KO/R처럼 글자가 세로로 쪼개지는 것 막음(김채린 지적) */
 .langs a.on,.langs a:hover{background:var(--blue);color:#fff}
 .ig{color:var(--blue);font-weight:600}.ig:hover{text-decoration:underline}
 @media (max-width:980px){
